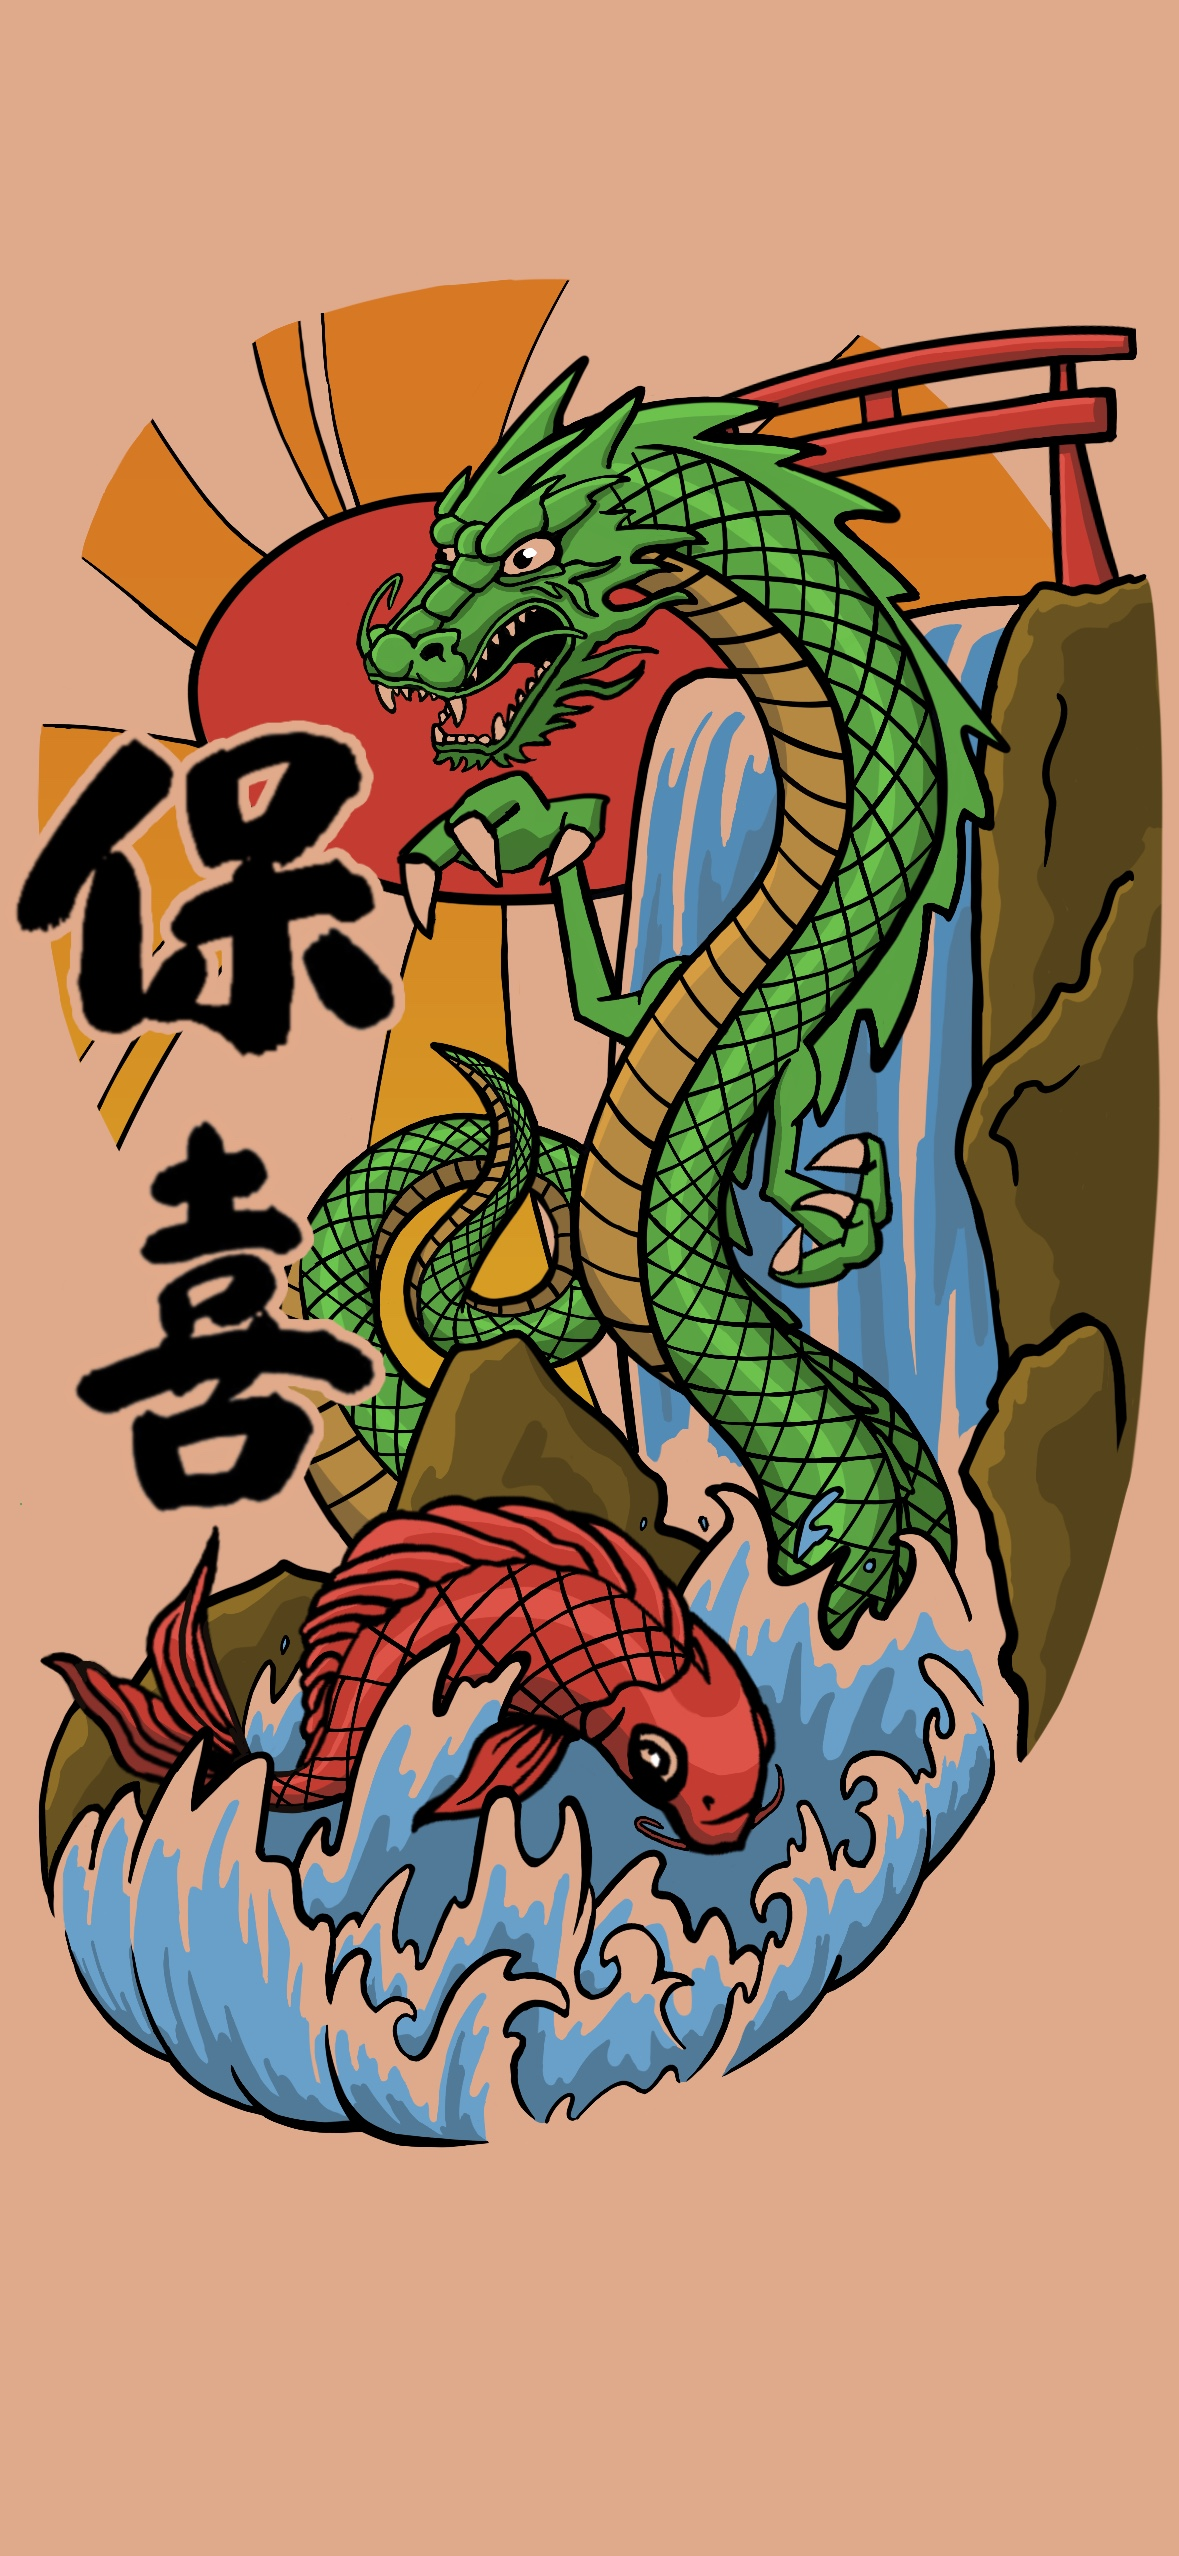
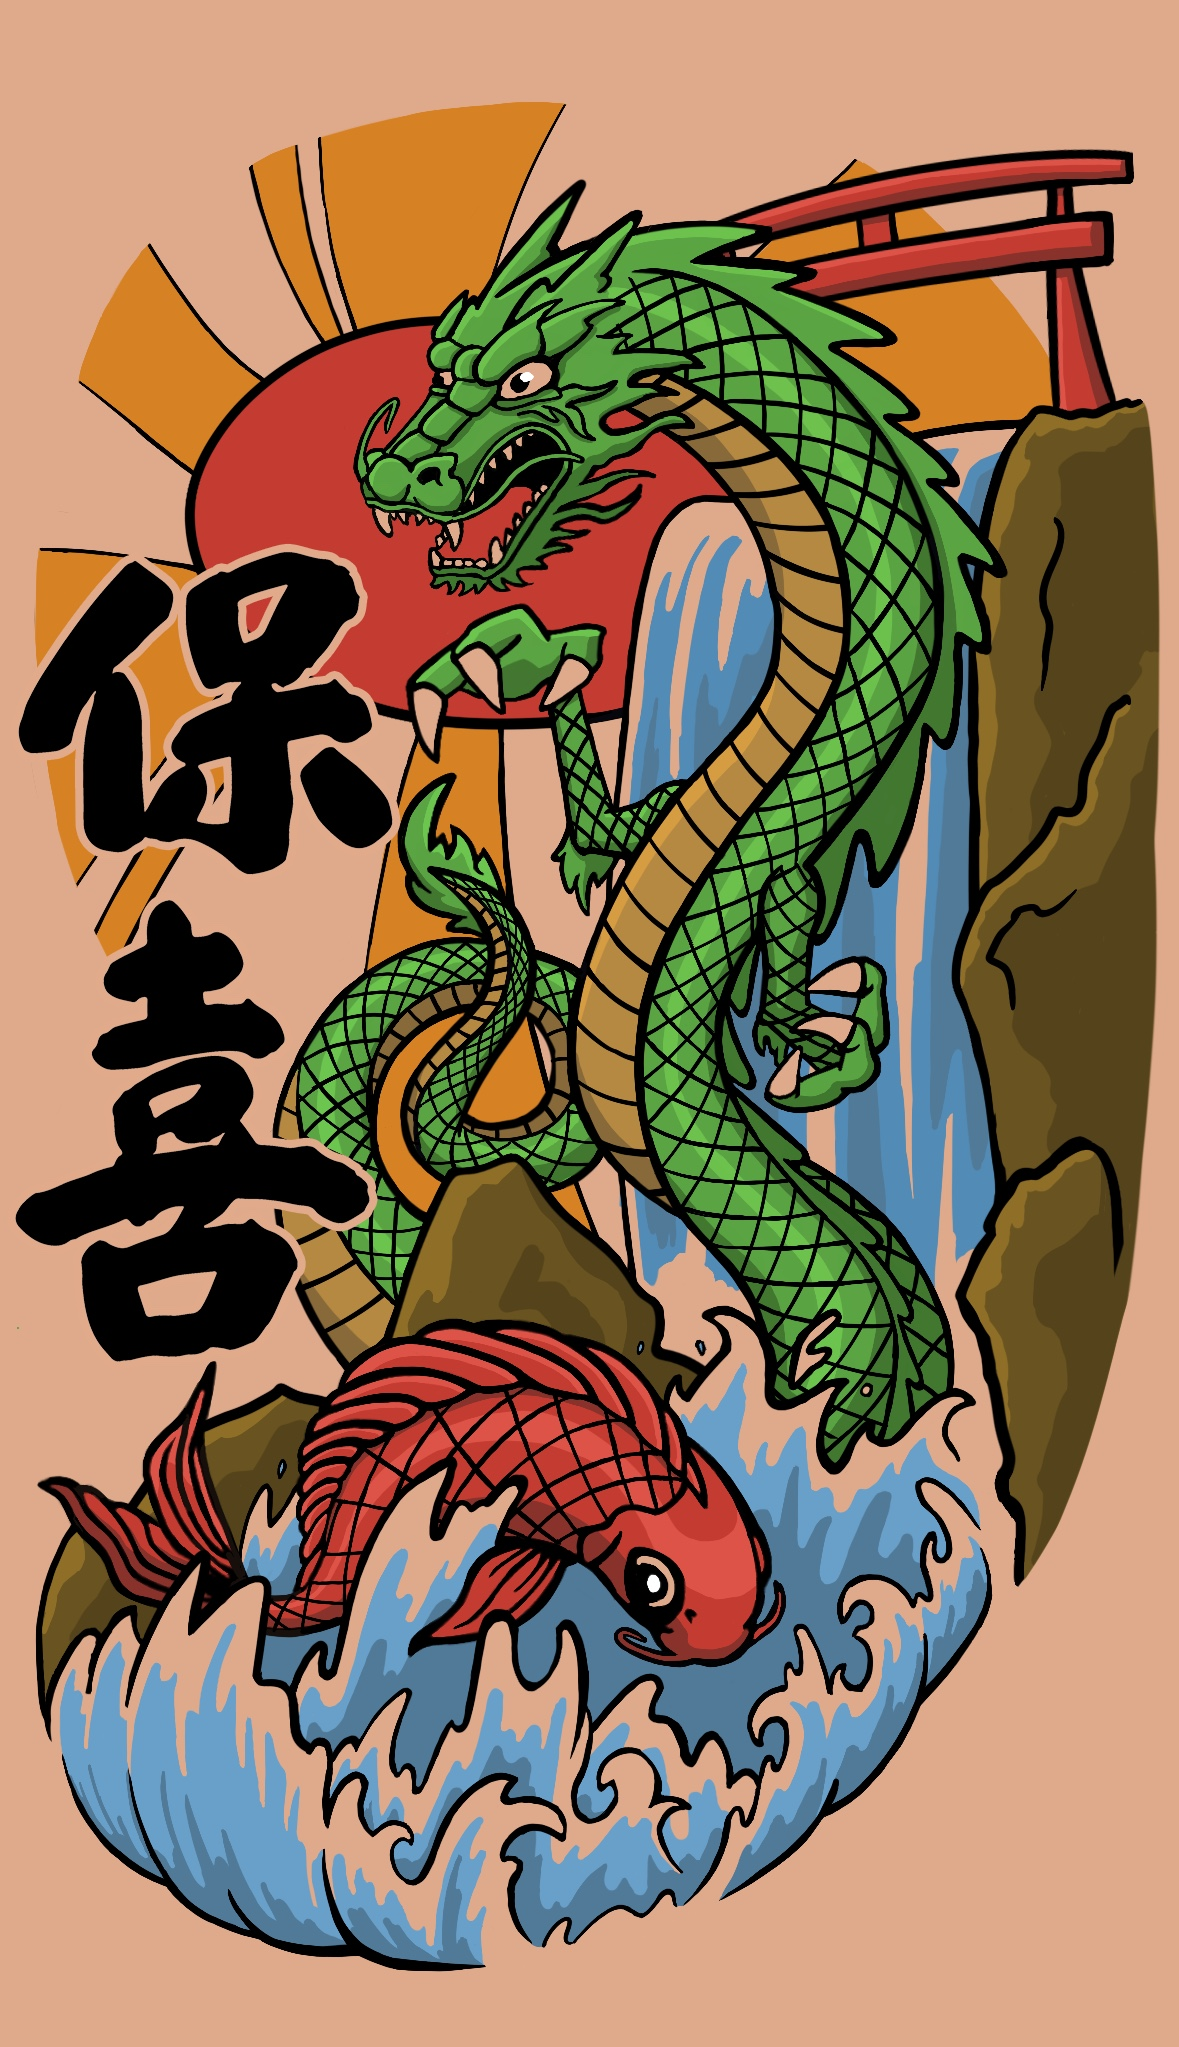
subtitle change and dime change

diff --git a/src/pages/KanjiPage.tsx b/src/pages/KanjiPage.tsx
@@ -1,23 +1,27 @@
 import React from 'react';
 import { Page } from '../components/Page/Page';
 
+import { ImageMaximizable } from '~components/ImageModal/ImageMaximizable';
+import { SubTitle } from '~components/SubTitle/SubTitle';
 import ImgKanji from '~images/hoki-kanji-original-with-border.jpg';
 import ImgCranes from '~images/1001-cranes.jpg';
 import ImgCranesSmall from '~images/1001-cranes-small.jpg';
 import ImgCranesFrame from '~images/1001-cranes-frame.jpg';
 import ImgCranesFrameSmall from '~images/1001-cranes-frame-small.jpg';
-import { ImageMaximizable } from '~components/ImageModal/ImageMaximizable';
 
 export const KanjiPage = () => {
 	return (
 		<Page title="Kanji">
-			<img alt="Tattoo" height="400" src={ImgKanji} width="309" />
+			<SubTitle>Kanji</SubTitle>
 			<p>
 				&quot;Hoki&quot; is my family surname. These are the Japanese Kanji
 				characters for Hoki.
 			</p>
+			<img alt="Kanji" height="400" src={ImgKanji} width="309" />
+
 			<p>Hoki roughly translated means &quot;Keaper of Joy&quot;</p>
 
+			<SubTitle>1001 Cranes</SubTitle>
 			<p>
 				This is the 1001 Cranes that my family made for my wedding. They did an
 				awesome job! Each crane was hand folded and shaped into the Japanese

diff --git a/src/TattooCanvas/MagnifyingGlass.tsx b/src/TattooCanvas/MagnifyingGlass.tsx
@@ -2,6 +2,7 @@ import React, { useState } from 'react';
 import { ImageModal } from '~components/ImageModal/ImageModal';
 import ImgTattoo from '~images/tattoo.jpg';
 import './MagnifyingGlass.scss';
+import { ORIGINAL_HEIGHT, ORIGINAL_WIDTH } from 'src/const';
 
 export const MagnifyingGlass = () => {
 	const [selectedImg, setSelectedImg] = useState(false);
@@ -11,7 +12,7 @@ export const MagnifyingGlass = () => {
 		<>
 			{selectedImg && (
 				<ImageModal
-					dimensions={[1179, 2556]}
+					dimensions={[ORIGINAL_WIDTH, ORIGINAL_HEIGHT]}
 					onClose={onClick}
 					src={ImgTattoo}
 				/>

diff --git a/src/TattooCanvas/TattooCanvas.tsx b/src/TattooCanvas/TattooCanvas.tsx
@@ -1,10 +1,9 @@
 import React from 'react';
 import { getWidthFromHeight } from '~helpers/numbers';
 import ImgTattoo from '~images/tattoo.jpg';
-import { SPOTS } from '../const';
+import { ORIGINAL_HEIGHT, ORIGINAL_WIDTH, SPOTS } from '../const';
 import { Spot } from './Spot';
 import { MagnifyingGlass } from './MagnifyingGlass';
-import { ORIGINAL_HEIGHT, ORIGINAL_WIDTH } from './const';
 import './TattooCanvas.scss';
 
 export const TattooCanvas = ({ height }: TattooCanvasProps) => {

diff --git a/src/const.ts b/src/const.ts
@@ -1,3 +1,12 @@
+// Text Info Box
+export const LAPTOP_HEIGHT = 650;
+export const LAPTOP_WIDTH = 600;
+
+// Tattoo Size
+export const ORIGINAL_WIDTH = 1179;
+export const ORIGINAL_HEIGHT = 2047;
+
+// Tattoo Spots
 export const SPOTS: SpotType[] = [
 	{
 		link: '/art',
@@ -49,6 +58,3 @@ export type SpotType = {
 	x: number;
 	y: number;
 };
-
-export const LAPTOP_HEIGHT = 650;
-export const LAPTOP_WIDTH = 600;

diff --git a/src/components/SubTitle/SubTitle.scss b/src/components/SubTitle/SubTitle.scss
@@ -1,6 +1,5 @@
 .subtitle {
-	font-size: 35px;
+	font-size: 25px;
 	margin: 0;
 	margin-bottom: 5px;
-	text-decoration: underline;
 }
